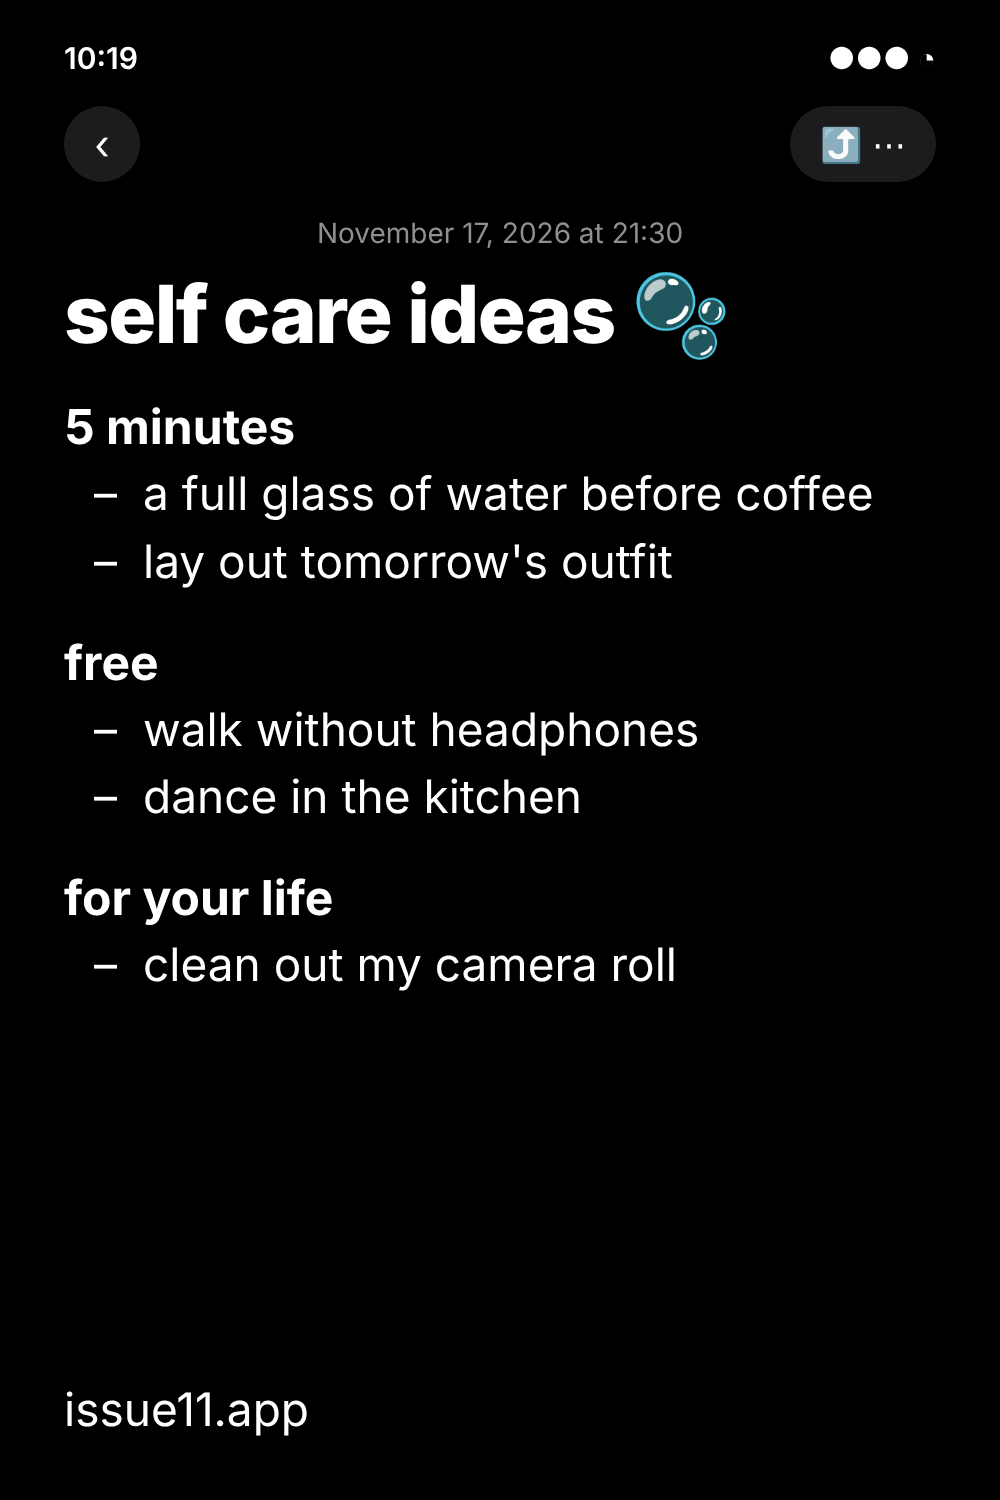
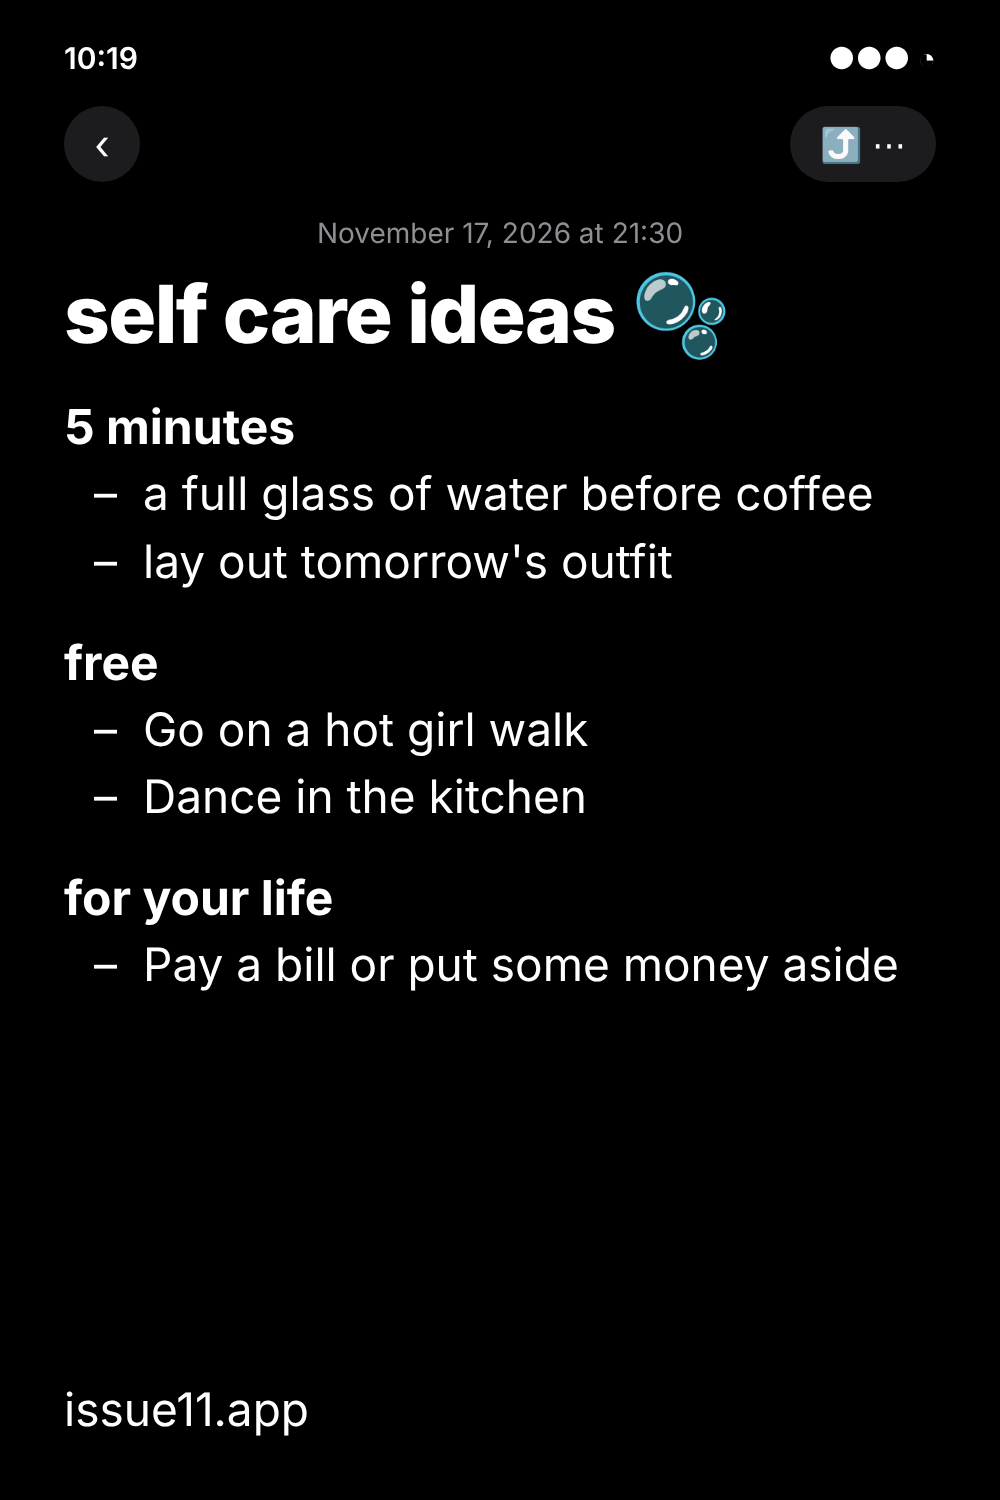
ArticlePinSCI: Megan's lines
Claude-Session: https://claude.ai/code/session_01YGtmQppBCBt9nypMHzxSp1

Changed region(s): [[0.124, 0.46, 0.682, 0.552], [0.279, 0.6133, 0.899, 0.6747], [0.155, 0.6133, 0.248, 0.6747]]

diff --git a/drafts/pinterest/article-pins/ArticlePinSCI.dc.html b/drafts/pinterest/article-pins/ArticlePinSCI.dc.html
@@ -18,7 +18,7 @@
   <p style="margin:34px 0 0; text-align:center; font-size:28px; color:#8e8e93">November 17, 2026 at 21:30</p>
   <h1 style="margin:22px 0 0; font-size:80px; font-weight:800; letter-spacing:-0.02em; line-height:1.05">self care ideas 🫧</h1>
   
-  <p style="margin:41px 0 6px; font-weight:700; font-size:48px">5 minutes</p><div style="padding-left:30px; font-size:46px; line-height:1.3"><div style="display:flex; gap:26px; margin:8px 0"><span>–</span><span>a full glass of water before coffee</span></div><div style="display:flex; gap:26px; margin:8px 0"><span>–</span><span>lay out tomorrow's outfit</span></div></div><p style="margin:41px 0 6px; font-weight:700; font-size:48px">free</p><div style="padding-left:30px; font-size:46px; line-height:1.3"><div style="display:flex; gap:26px; margin:8px 0"><span>–</span><span>walk without headphones</span></div><div style="display:flex; gap:26px; margin:8px 0"><span>–</span><span>dance in the kitchen</span></div></div><p style="margin:41px 0 6px; font-weight:700; font-size:48px">for your life</p><div style="padding-left:30px; font-size:46px; line-height:1.3"><div style="display:flex; gap:26px; margin:8px 0"><span>–</span><span>clean out my camera roll</span></div></div>
+  <p style="margin:41px 0 6px; font-weight:700; font-size:48px">5 minutes</p><div style="padding-left:30px; font-size:46px; line-height:1.3"><div style="display:flex; gap:26px; margin:8px 0"><span>–</span><span>a full glass of water before coffee</span></div><div style="display:flex; gap:26px; margin:8px 0"><span>–</span><span>lay out tomorrow's outfit</span></div></div><p style="margin:41px 0 6px; font-weight:700; font-size:48px">free</p><div style="padding-left:30px; font-size:46px; line-height:1.3"><div style="display:flex; gap:26px; margin:8px 0"><span>–</span><span>Go on a hot girl walk</span></div><div style="display:flex; gap:26px; margin:8px 0"><span>–</span><span>Dance in the kitchen</span></div></div><p style="margin:41px 0 6px; font-weight:700; font-size:48px">for your life</p><div style="padding-left:30px; font-size:46px; line-height:1.3"><div style="display:flex; gap:26px; margin:8px 0"><span>–</span><span>Pay a bill or put some money aside</span></div></div>
 <p style="position:absolute; left:64px; bottom:60px; margin:0; font-size:46px; line-height:1.3">issue11.app</p></div>
 </div>
 </x-dc>
